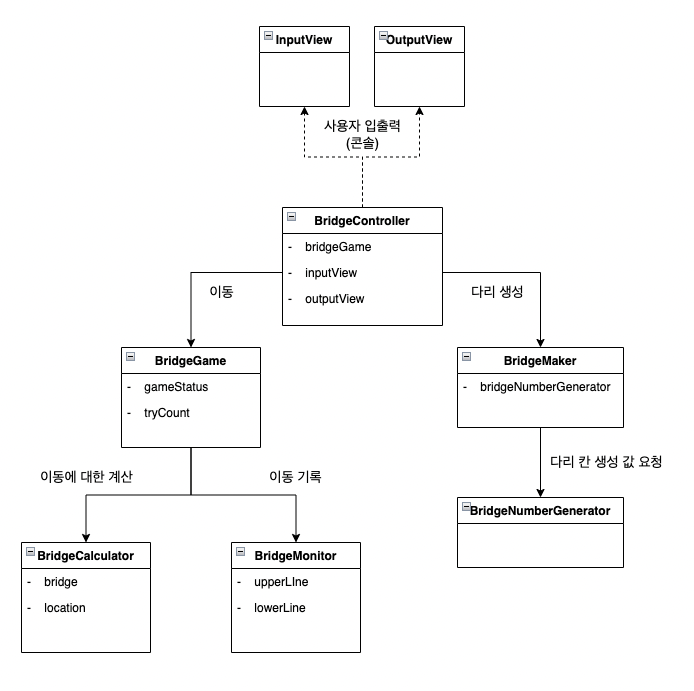
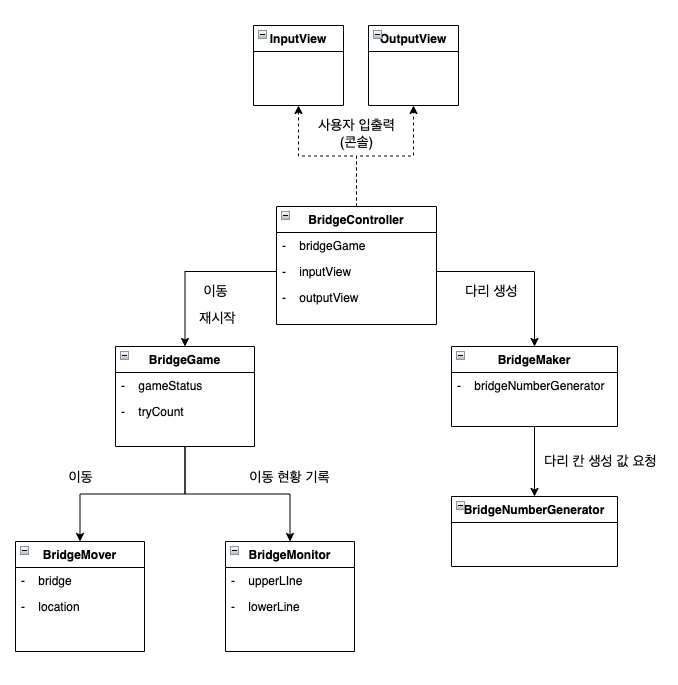
refactor(BridgeCalculator): 클래스 이름 변경

diff --git a/src/main/java/bridge/domain/BridgeGame.java b/src/main/java/bridge/domain/BridgeGame.java
@@ -12,13 +12,13 @@ import java.util.List;
 public class BridgeGame {
     private GameStatus gameStatus;
     private int tryCount;
-    private BridgeCalculator bridgeCalculator;
+    private BridgeMover bridgeCalculator;
     private BridgeMonitor bridgeMonitor;
 
     public BridgeGame(List<String> bridge) {
         this.gameStatus = ON_WAY;
         this.tryCount = 1;
-        this.bridgeCalculator = new BridgeCalculator(bridge);
+        this.bridgeCalculator = new BridgeMover(bridge);
         this.bridgeMonitor = new BridgeMonitor();
     }
 

diff --git a/src/main/java/bridge/domain/BridgeMover.java b/src/main/java/bridge/domain/BridgeMover.java
@@ -2,11 +2,11 @@ package bridge.domain;
 
 import java.util.List;
 
-public class BridgeCalculator {
+public class BridgeMover {
     private List<String> bridge;
     private int location;
 
-    public BridgeCalculator(List<String> bridge) {
+    public BridgeMover(List<String> bridge) {
         this.bridge = bridge;
         this.location = 0;
     }

diff --git a/docs/README.md b/docs/README.md
@@ -60,7 +60,7 @@
   - [ ] 이동할 방향(moving)
   - [ ] 게임 재시작 여부(game command)
 
-### BridgeCalculate
+### BridgeMover
 - [ ] 이동 성공 여부 계산
 - [ ] 게임 성공 여부 계산
 
